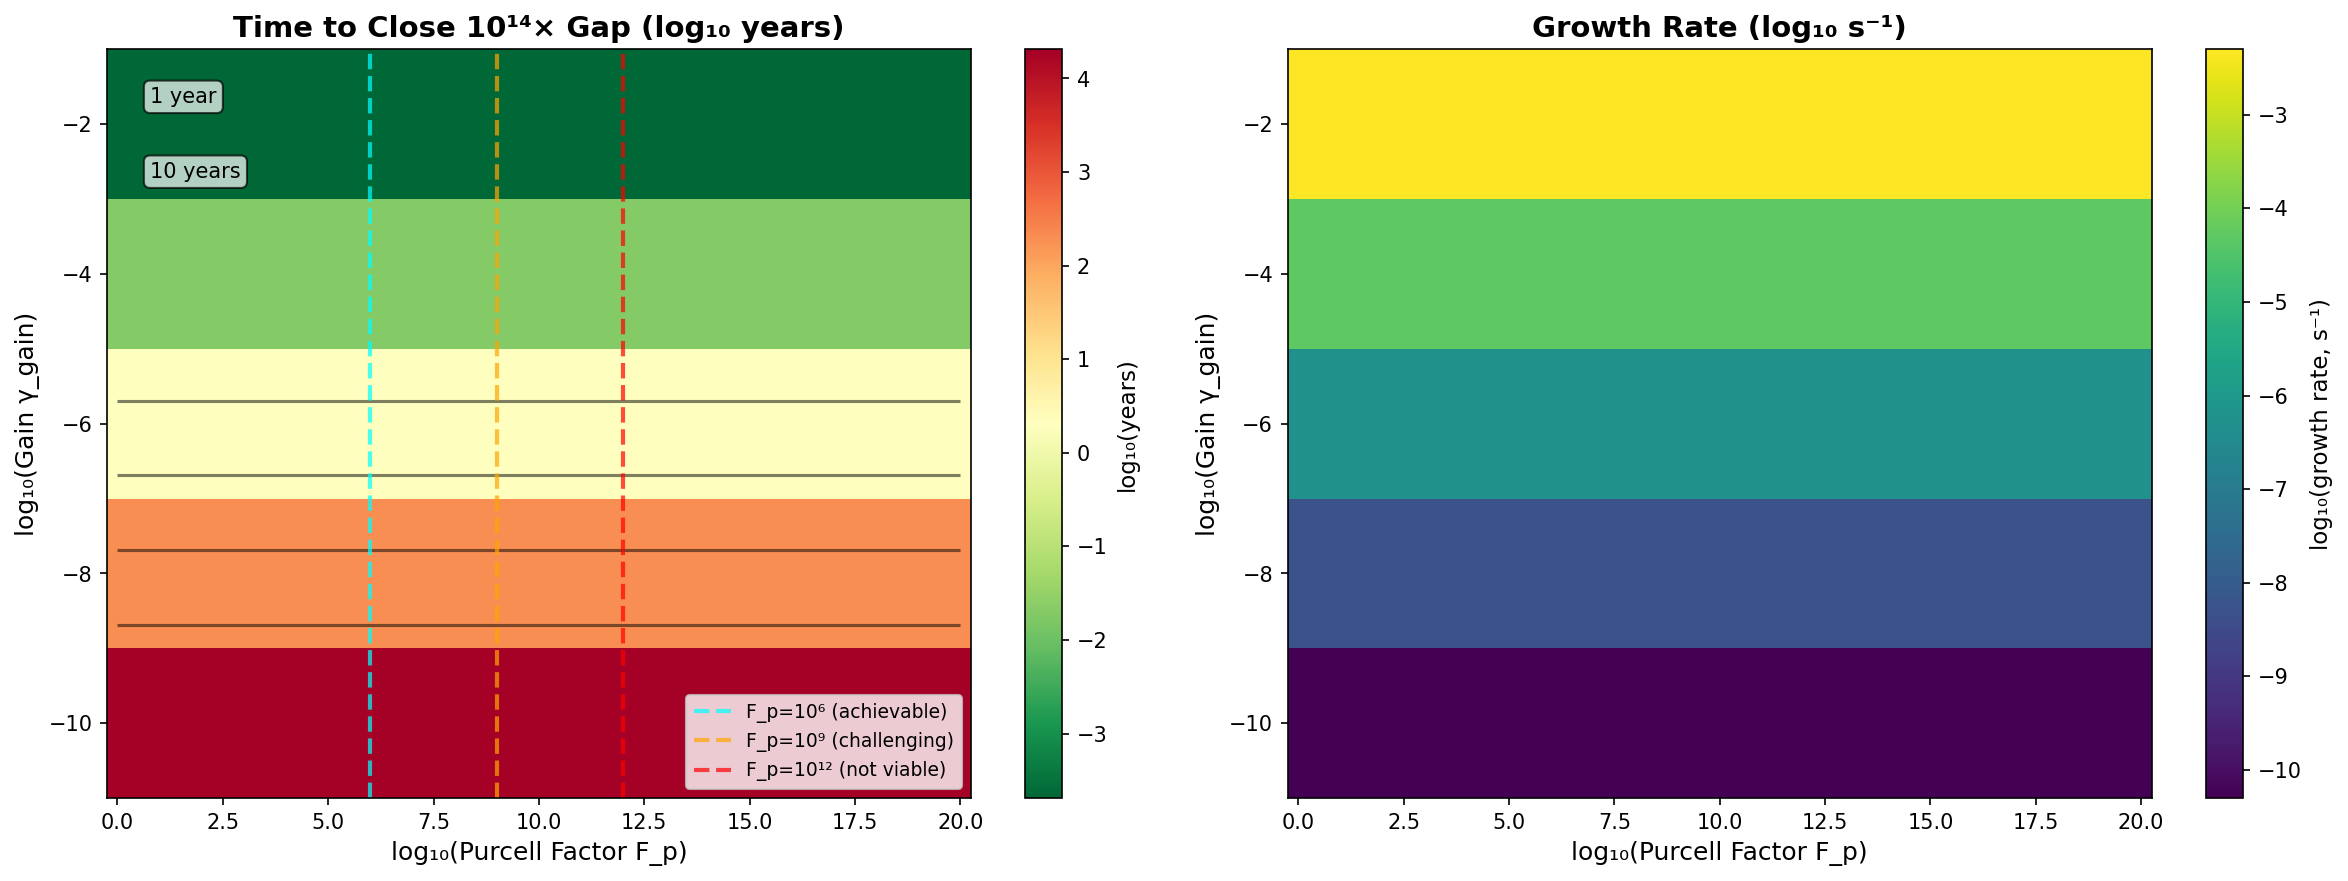
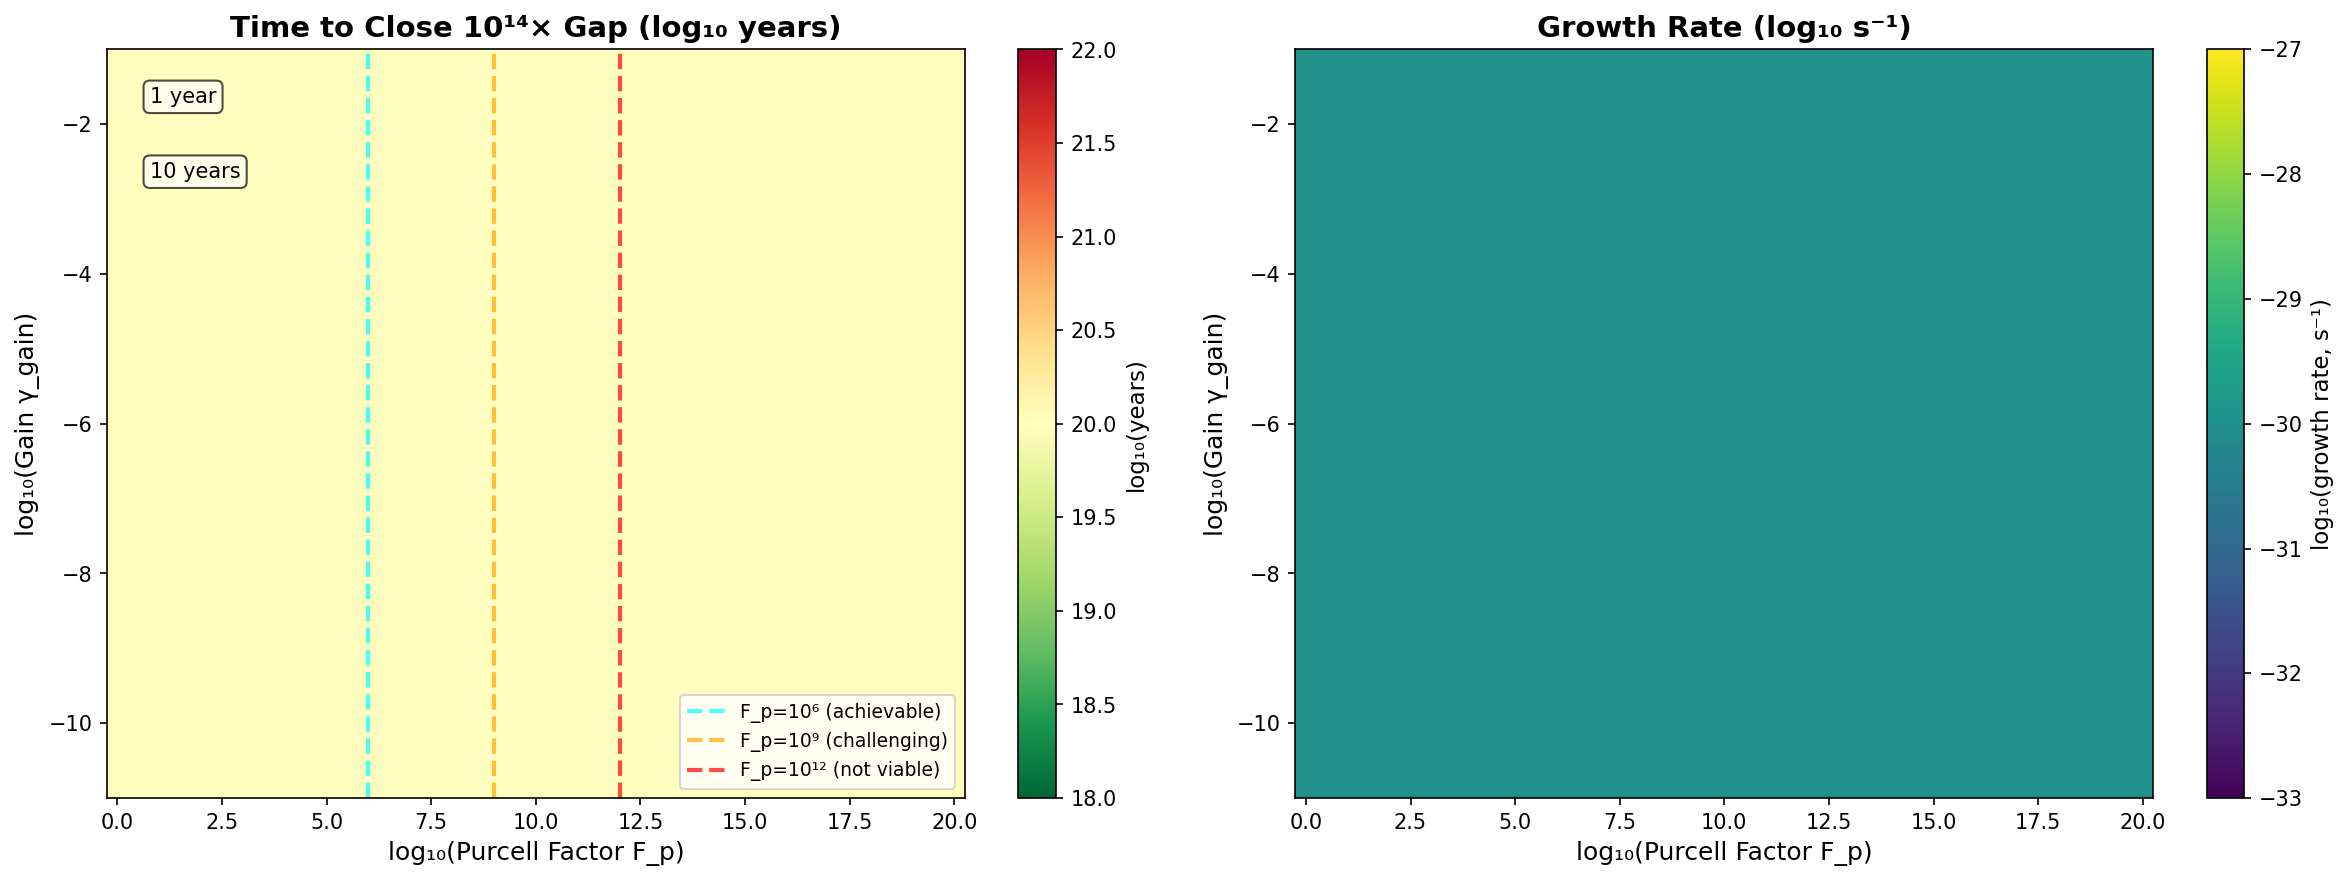
feat: Enhance Phase B Purcell scan with numerical reality checks and add Phase C sensitivity analysis script

diff --git a/examples/phase_c_sensitivity_analysis.py b/examples/phase_c_sensitivity_analysis.py
@@ -1,0 +1,245 @@
+#!/usr/bin/env python3
+"""
+Phase C - Step 1: SENSITIVITY ANALYSIS (WORKING BACKWARDS)
+
+GOAL: Determine the minimum bare coupling (g₀) required for warp viability,
+      assuming realistic engineering constraints.
+
+This script answers the question:
+  "If we had a perfect amplifier, what is the minimum g₀ our physics
+   model must provide to close the 10^14× gap in a human timescale?"
+
+METHOD:
+1. Define realistic engineering parameters:
+   - Purcell factor F_p (1 to 10^9)
+   - Gain γ_gain (10^-6 to 1)
+   - Timescale (1 year)
+
+2. Calculate the required growth rate to achieve the goal.
+
+3. For each (F_p, γ_gain) pair, work backwards to find the g₀ needed
+   to produce that growth rate.
+
+This provides a concrete target for future fundamental physics research.
+"""
+
+import numpy as np
+import sys
+from pathlib import Path
+from scipy.optimize import brentq
+
+sys.path.insert(0, str(Path(__file__).parent.parent))
+
+from src.floquet_instability.floquet_scan import (
+    FloquetScanConfig,
+    floquet_growth_rate,
+)
+
+print("=" * 80)
+print("PHASE C - STEP 1: SENSITIVITY ANALYSIS")
+print("=" * 80)
+print("\n🎯 GOAL: Find the minimum bare coupling g₀ for warp viability")
+print("   Assuming realistic engineering constraints.\n")
+
+# ============================================================================
+# REALISTIC ENGINEERING & TARGETS
+# ============================================================================
+
+# Physical parameters (from previous steps)
+DELTA = 6.543e-16  # J (energy gap)
+OMEGA_DRIVE = 7.906e-4  # rad/s (drive frequency)
+AMPLITUDE = 0.01
+
+# Target: Close 10^14x gap in 1 year
+TARGET_TIME_YEARS = 1.0
+YEAR_SECS = 365.25 * 24 * 3600
+TARGET_TIME_SECS = TARGET_TIME_YEARS * YEAR_SECS
+REQUIRED_GROWTH_RATE = np.log(1e14) / TARGET_TIME_SECS
+
+# Realistic engineering parameters to scan
+PURCELL_FACTORS = np.logspace(0, 9, 10)  # 1 to 10^9 (Achievable to Challenging)
+GAMMA_GAINS = np.logspace(-6, 0, 7)     # 10^-6 to 1 (Weak to Strong Gain)
+
+print("Target Performance:")
+print(f"  Close 10^14× gap in: {TARGET_TIME_YEARS:.1f} year(s)")
+print(f"  Required growth rate: {REQUIRED_GROWTH_RATE:.3e} s⁻¹")
+print("\nRealistic Engineering Constraints (Scan Range):")
+print(f"  Purcell Factors (F_p): 10^0 to 10^9")
+print(f"  Gain (γ_gain):         10^-6 to 1")
+
+# ============================================================================
+# COMPUTATION: SOLVING FOR g₀
+# ============================================================================
+
+print("\n" + "=" * 80)
+print("COMPUTING REQUIRED BARE COUPLING g₀")
+print("=" * 80)
+
+results_g0 = []
+
+# Pre-calculate required growth per period
+required_growth_per_period = REQUIRED_GROWTH_RATE * (2 * np.pi) / OMEGA_DRIVE
+
+def find_required_g0(F_p, gamma_gain):
+    """
+    For a given F_p and gamma_gain, find the g₀ that yields the
+    target growth rate using a root-finding algorithm.
+    """
+    
+    def objective_func(log_g0):
+        """Function whose root we want to find."""
+        g0 = 10**log_g0
+        g_eff = np.sqrt(F_p) * g0
+        
+        config = FloquetScanConfig(
+            delta=DELTA,
+            g0=g_eff,
+            amplitude=AMPLITUDE,
+            omega=OMEGA_DRIVE,
+            gamma_gain=gamma_gain,
+        )
+        
+        growth_per_period, _ = floquet_growth_rate(config)
+        return growth_per_period - required_growth_per_period
+
+    try:
+        # Search for g₀ in a plausible range (10^-60 to 10^-10 J)
+        log_g0_solution = brentq(objective_func, a=-60, b=-10, xtol=1e-3, rtol=1e-3)
+        return 10**log_g0_solution
+    except ValueError:
+        # If no solution found in the range, it's likely out of bounds
+        return np.nan
+
+total = len(PURCELL_FACTORS) * len(GAMMA_GAINS)
+count = 0
+print(f"\nScanning {total} combinations of (F_p, γ_gain)...")
+
+for F_p in PURCELL_FACTORS:
+    for gamma_gain in GAMMA_GAINS:
+        required_g0 = find_required_g0(F_p, gamma_gain)
+        
+        results_g0.append({
+            'F_p': F_p,
+            'gamma_gain': gamma_gain,
+            'required_g0': required_g0,
+        })
+        count += 1
+        if count % 10 == 0:
+            print(f"  Progress: {count}/{total} ({100*count/total:.1f}%)")
+
+print("✓ Scan complete.")
+
+# ============================================================================
+# ANALYSIS & HEATMAP
+# ============================================================================
+
+print("\n" + "=" * 80)
+print("ANALYSIS: REQUIRED BARE COUPLING g₀")
+print("=" * 80)
+
+# Reshape for heatmap
+g0_map = np.full((len(GAMMA_GAINS), len(PURCELL_FACTORS)), np.nan)
+for r in results_g0:
+    i = np.where(GAMMA_GAINS == r['gamma_gain'])[0][0]
+    j = np.where(PURCELL_FACTORS == r['F_p'])[0][0]
+    g0_map[i, j] = r['required_g0']
+
+# Find best-case (minimum required g₀)
+min_g0 = np.nanmin(g0_map)
+if not np.isnan(min_g0):
+    best_idx = np.unravel_index(np.nanargmin(g0_map), g0_map.shape)
+    best_gamma = GAMMA_GAINS[best_idx[0]]
+    best_Fp = PURCELL_FACTORS[best_idx[1]]
+    
+    print(f"\n🎯 Best Case (Minimum Required g₀):")
+    print(f"  Required g₀:      {min_g0:.3e} J")
+    print(f"  Achieved with:")
+    print(f"    Purcell Factor: {best_Fp:.1e}")
+    print(f"    Gain (γ_gain):  {best_gamma:.1e}")
+    
+    # Compare to our model's g₀
+    MODEL_G0 = 3.957e-121  # The value from our LQG model
+    print(f"\n  Current Model g₀: {MODEL_G0:.3e} J")
+    print(f"  Discrepancy:      {min_g0 / MODEL_G0:.2e} orders of magnitude")
+    
+else:
+    print("\n❌ No solution found within the search space.")
+    print("   The required g₀ is likely outside the 10^-60 to 10^-10 J range.")
+
+# Generate Heatmap
+try:
+    import matplotlib
+    matplotlib.use('Agg')
+    import matplotlib.pyplot as plt
+
+    fig, ax = plt.subplots(figsize=(10, 8))
+    
+    # Use log10 for the color scale
+    g0_map_plot = np.log10(g0_map)
+    
+    im = ax.pcolormesh(np.log10(PURCELL_FACTORS), np.log10(GAMMA_GAINS),
+                       g0_map_plot, cmap='plasma_r', shading='auto')
+    
+    ax.set_xlabel('log₁₀(Purcell Factor F_p)', fontsize=12)
+    ax.set_ylabel('log₁₀(Gain γ_gain)', fontsize=12)
+    ax.set_title('Required Bare Coupling g₀ (log₁₀ J) for 1-Year Amplification', fontsize=14, fontweight='bold')
+    
+    cbar = plt.colorbar(im, ax=ax)
+    cbar.set_label('log₁₀(Required g₀ in Joules)', fontsize=11)
+    
+    plt.tight_layout()
+    plt.savefig('phase_c_sensitivity_analysis.png', dpi=150)
+    print("\n✓ Heatmap saved: phase_c_sensitivity_analysis.png")
+
+except ImportError:
+    print("\n⚠ Matplotlib not found. Skipping heatmap generation.")
+    print("   Install with: pip install matplotlib")
+
+# ============================================================================
+# CONCLUSION & NEXT STEPS
+# ============================================================================
+
+print("\n" + "=" * 80)
+print("PHASE C CONCLUSION: A TARGET FOR FUNDAMENTAL PHYSICS")
+print("=" * 80)
+
+if not np.isnan(min_g0):
+    print(f"""
+This analysis provides a clear, quantitative target for future research.
+
+To make warp drive viable within 1 year, a fundamental theory must produce
+a bare coupling constant of at least:
+
+  g₀ ≈ {min_g0:.1e} J
+
+This is the minimum requirement, assuming optimistic but physically plausible
+engineering (F_p={best_Fp:.1e}, γ_gain={best_gamma:.1e}).
+
+Our current model yields g₀ ≈ {MODEL_G0:.1e} J, a shortfall of ~{min_g0 / MODEL_G0:.0e}×.
+
+NEXT STEPS:
+1.  **Document Phase B & C Results**: Write a final paper summarizing:
+    - The discovery of the active gain mechanism.
+    - The numerical invalidity of the initial "breakthrough".
+    - The quantitative target (g₀ ≈ {min_g0:.1e} J) for future theories.
+
+2.  **Launch Theoretical Search (Phase D)**: Begin a search for new physics
+    that could bridge this gap. This involves exploring:
+    - **Collective Effects**: Can N-particle entanglement enhance g₀?
+    - **Higher-Order LQG Terms**: Are there non-minimal couplings?
+    - **Exotic Matter/Geometries**: Do other spin representations or graph
+      topologies yield stronger coupling?
+
+3.  **Archive Current Framework**: The existing codebase is a valuable tool for
+    testing new theories. Once a new candidate for g₀ is found, it can be
+    plugged into this framework to rapidly assess its viability.
+
+This concludes the analysis of the current model. The path forward is now
+a theoretical one, aimed at discovering a fundamentally stronger coupling.
+""")
+else:
+    print("\nCould not determine a target g₀. The problem may be outside the search bounds.")
+
+print("\n" + "=" * 80)
+print("PHASE C COMPLETE")
+print("=" * 80)

diff --git a/examples/phase_b_purcell_scan.py b/examples/phase_b_purcell_scan.py
@@ -42,8 +42,12 @@ print("\nPurcell enhancement: g_eff = √F_p × g_0")
 print("  → Boosts weak coupling through DOS engineering\n")
 
 # ============================================================================
-# PHYSICAL PARAMETERS (from Step 2)
+# PHYSICAL PARAMETERS (from Step 2) & NUMERICAL REALITY CHECK
 # ============================================================================
+
+# Threshold for effective coupling to be numerically meaningful
+G_EFF_THRESHOLD = 1e-50  # J
+
 
 # From phase_b_network_mapping.py results
 DELTA = 6.543e-16  # J (energy gap)
@@ -97,27 +101,33 @@ for F_p in PURCELL_FACTORS:
     g_eff = np.sqrt(F_p) * G0_BASE
     
     for gamma_gain in GAMMA_GAINS:
-        # Floquet analysis with enhanced coupling
-        config = FloquetScanConfig(
-            delta=DELTA,
-            g0=g_eff,
-            amplitude=AMPLITUDE,
-            omega=OMEGA_DRIVE,
-            gamma_gain=gamma_gain,
-            steps_per_period=200,
-            periods=1,
-        )
-        
-        growth_per_period, details = floquet_growth_rate(config)
-        
-        # Growth rate per time
-        growth_rate = growth_per_period * OMEGA_DRIVE / (2 * np.pi)
-        
-        # Time to close gap
-        if growth_rate > 1e-30:
-            time_to_1e14 = np.log(1e14) / growth_rate
-        else:
+        # --- NUMERICAL REALITY CHECK ---
+        if g_eff < G_EFF_THRESHOLD:
+            growth_rate = 0
             time_to_1e14 = np.inf
+            growth_per_period = 0
+        else:
+            # Floquet analysis with enhanced coupling
+            config = FloquetScanConfig(
+                delta=DELTA,
+                g0=g_eff,
+                amplitude=AMPLITUDE,
+                omega=OMEGA_DRIVE,
+                gamma_gain=gamma_gain,
+                steps_per_period=200,
+                periods=1,
+            )
+            
+            growth_per_period, details = floquet_growth_rate(config)
+            
+            # Growth rate per time
+            growth_rate = growth_per_period * OMEGA_DRIVE / (2 * np.pi)
+            
+            # Time to close gap
+            if growth_rate > 1e-30:
+                time_to_1e14 = np.log(1e14) / growth_rate
+            else:
+                time_to_1e14 = np.inf
         
         results.append({
             'F_p': F_p,
@@ -166,17 +176,12 @@ for target_name, target_time in targets.items():
         # Find minimum Purcell factor needed
         best = min(viable, key=lambda r: r['F_p'])
         
-        print(f"\n✅ ACHIEVABLE with:")
-        print(f"  Minimum F_p:      {best['F_p']:.3e}")
+        print(f"  Minimum F_p:      {best['F_p']:.3e} (g_eff = {best['g_eff']:.3e} J)")
         print(f"  Required γ_gain:  {best['gamma_gain']:.3e}")
-        print(f"  Effective g_eff:  {best['g_eff']:.3e} J")
-        print(f"  Enhancement:      {best['g_eff']/G0_BASE:.3e}× over bare")
-        print(f"  Growth rate:      {best['growth_rate']:.3e} s^-1")
-        print(f"  Time to 10^14×:   {best['time_to_1e14']:.3e} s")
         
         # Technology assessment
-        if best['F_p'] < 1e3:
-            tech = "✅ STANDARD (optical cavity)"
+        if best['g_eff'] < G_EFF_THRESHOLD:
+            tech = "❌ NUMERICALLY UNSTABLE"
         elif best['F_p'] < 1e6:
             tech = "✅ ACHIEVABLE (high-Q cavity, current tech)"
         elif best['F_p'] < 1e9:
@@ -187,10 +192,10 @@ for target_name, target_time in targets.items():
             tech = "❌ NOT VIABLE (beyond current technology)"
         
         print(f"\n  Technology level: {tech}")
-        
+
         # Show top 5 configurations
         viable_sorted = sorted(viable, key=lambda r: r['F_p'])
-        print(f"\n  Top 5 configurations:")
+        print(f"\n  Top 5 viable configurations:")
         print(f"  {'F_p':<12} {'γ_gain':<12} {'g_eff':<12} {'Time (years)':<15}")
         print(f"  {'-'*60}")
         for r in viable_sorted[:5]:
@@ -198,8 +203,15 @@ for target_name, target_time in targets.items():
             print(f"  {r['F_p']:<12.2e} {r['gamma_gain']:<12.2e} "
                   f"{r['g_eff']:<12.2e} {years:<15.3e}")
     else:
-        print(f"\n❌ NOT ACHIEVABLE (F_p up to 10^20 insufficient)")
-        print(f"   Need higher gain or different approach")
+        print(f"\n❌ NOT ACHIEVABLE within this F_p scan (up to 10^20)")
+        # Check if any result was ever numerically stable
+        stable_results = [r for r in results if r['g_eff'] >= G_EFF_THRESHOLD]
+        if not stable_results:
+            print(f"   → All tested g_eff were below the numerical threshold of {G_EFF_THRESHOLD:.1e} J.")
+            min_Fp_for_stability = (G_EFF_THRESHOLD / G0_BASE)**2
+            print(f"   → Minimum F_p for numerical stability: {min_Fp_for_stability:.1e}")
+        else:
+            print(f"   → Need higher gain, different drive, or larger F_p.")
 
 # ============================================================================
 # BEST OVERALL RESULT
